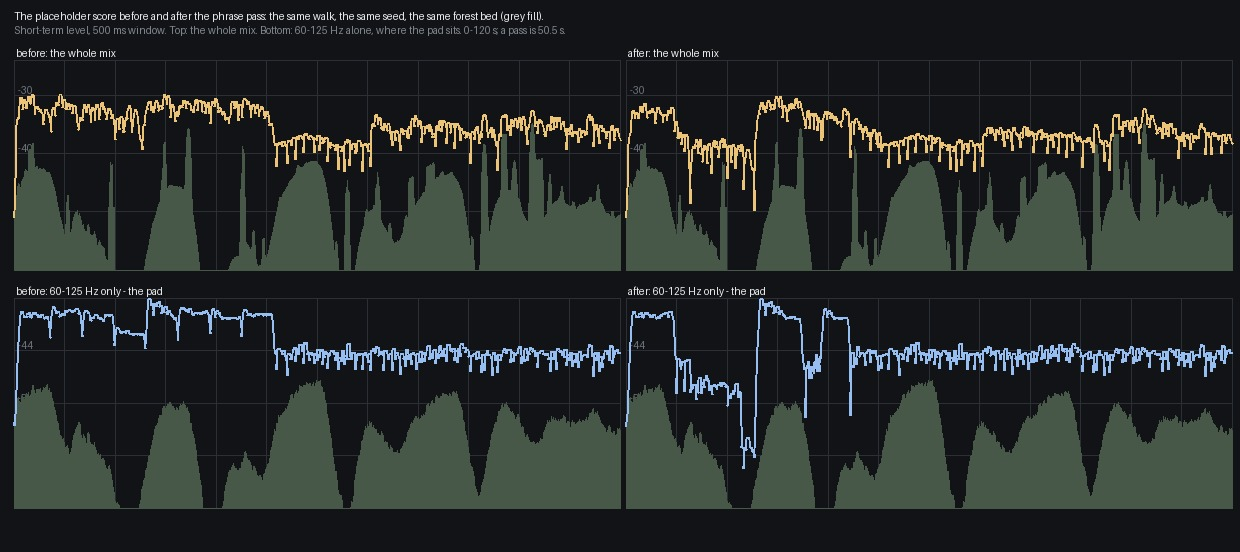
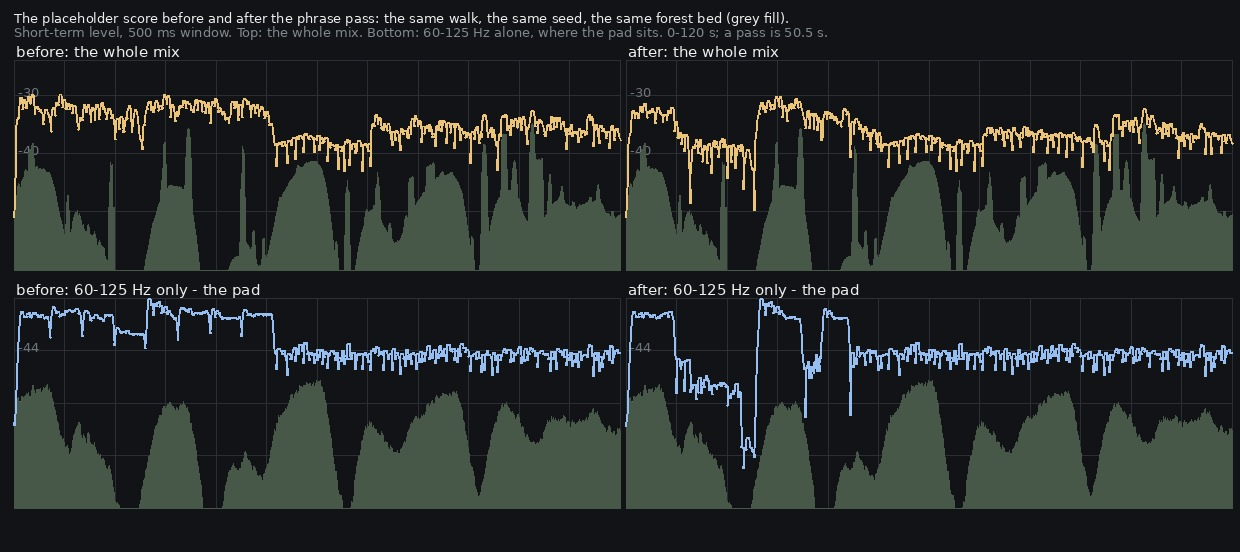
lane 5 evidence: readable fonts on the sheet, and --single for the clip video's background

diff --git a/art/audio/2026-09-24-headroom/shape.py b/art/audio/2026-09-24-headroom/shape.py
@@ -25,7 +25,16 @@ from PIL import Image, ImageDraw, ImageFont
 sys.path.insert(0, os.path.join(os.path.dirname(__file__), '..', '2026-09-23-lane5'))
 from spectra import load, mono  # noqa: E402
 
-FONT = ImageFont.load_default()
+def _font(size, bold=False):
+    for p in (f'/usr/share/fonts/truetype/dejavu/DejaVuSans{"-Bold" if bold else ""}.ttf',):
+        if os.path.exists(p):
+            return ImageFont.truetype(p, size)
+    return ImageFont.load_default()
+
+
+FONT = _font(13)
+TITLE = _font(22, bold=True)
+SUB = _font(15)
 BG = (17, 19, 22)
 GRID = (44, 48, 54)
 BED = (72, 88, 72)
@@ -77,17 +86,43 @@ def panel(draw, box, title, wav_main, wav_bed, sr, seconds, lo, hi, top, bot, co
     xs = np.arange(n) / max(1, n - 1)
     trace(draw, xs, b[:n], box, top, bot, BED, fill=True)
     trace(draw, xs, m[:n], box, top, bot, colour)
-    draw.text((x0 + 2, y0 - 13), title, font=FONT, fill=INK)
+    draw.text((x0 + 2, y0 - 17), title, font=SUB, fill=INK)
+
+
+def single(args):
+    """one take on its own, wide — the background a playhead is swept across in the clip video"""
+    W, H = args.width, 480
+    im = Image.new('RGB', (W, H), BG)
+    d = ImageDraw.Draw(im)
+    a, sr = load(os.path.join(args.single, 'mix.wav'))
+    ab, _ = load(os.path.join(args.single, 'bed.wav'))
+    x, xb = mono(a), mono(ab)
+    y = 92
+    for title, lo, hi, top, bot, colour in [
+        ('the whole mix (forest bed in grey)', 0, 0, -24.0, -60.0, TUNE),
+        ('60-125 Hz only - where the pad sits', 60, 125, -34.0, -74.0, BAND),
+    ]:
+        box = (16, y, W - 16, y + 160)
+        panel(d, box, title, x, xb, sr, args.seconds, lo, hi, top, bot, colour)
+        y += 194
+    d.text((18, 16), args.label, font=TITLE, fill=INK)
+    d.text((18, 46), 'short-term level, 500 ms window; the forest bed is the same render in both takes', font=SUB, fill=(140, 146, 154))
+    im.save(args.out, quality=95)
+    print('wrote', args.out)
 
 
 def main():
     ap = argparse.ArgumentParser()
-    ap.add_argument('--before', required=True)
-    ap.add_argument('--after', required=True)
+    ap.add_argument('--before')
+    ap.add_argument('--after')
+    ap.add_argument('--single', help='render one take wide instead of a before/after pair')
+    ap.add_argument('--label', default='')
     ap.add_argument('--out', required=True)
     ap.add_argument('--seconds', type=int, default=120)
     ap.add_argument('--width', type=int, default=1240)
     args = ap.parse_args()
+    if args.single:
+        return single(args)
 
     W, H = args.width, 552
     im = Image.new('RGB', (W, H), BG)
